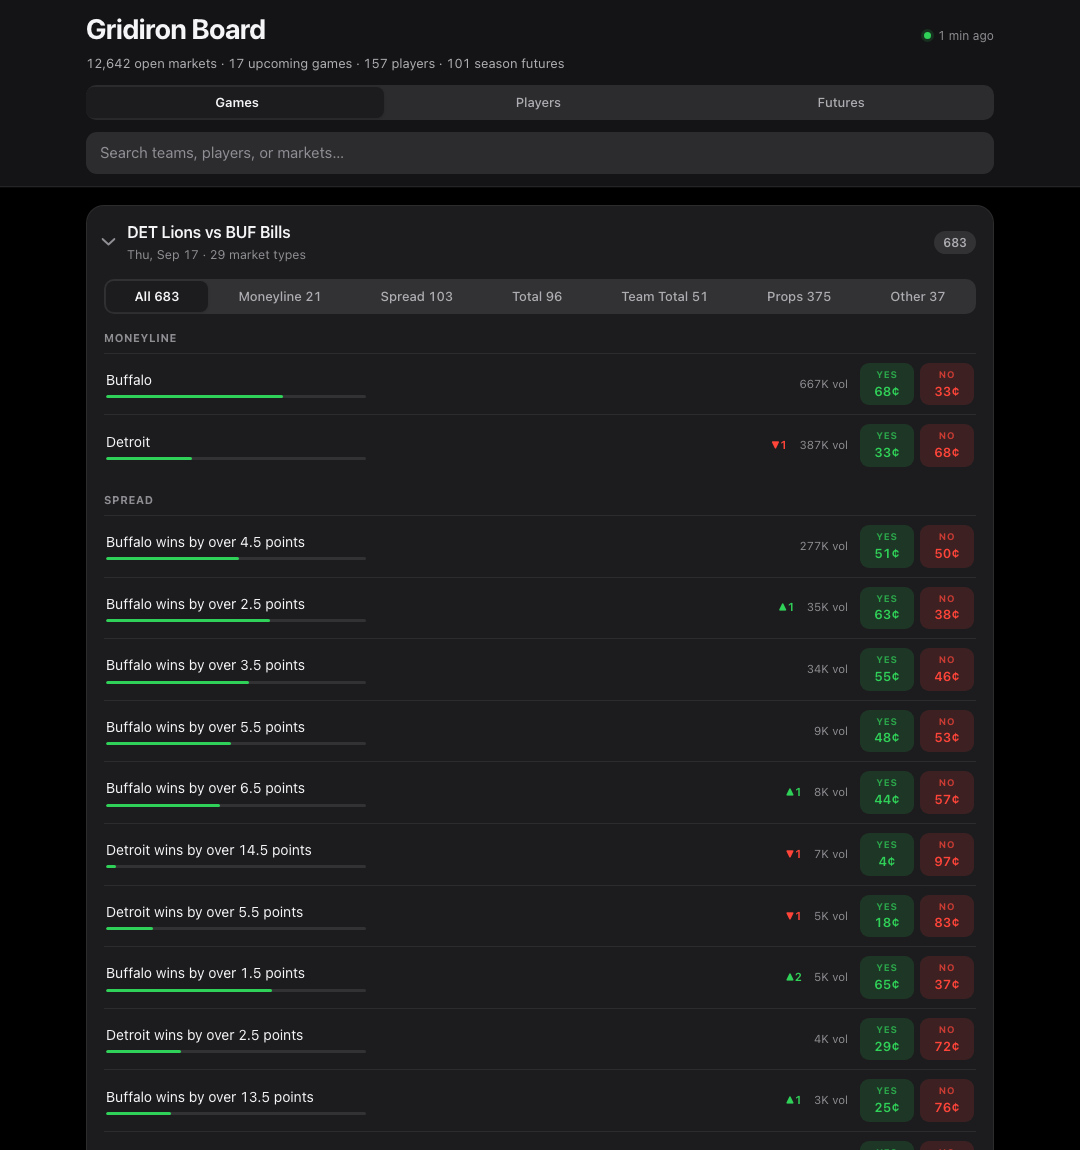
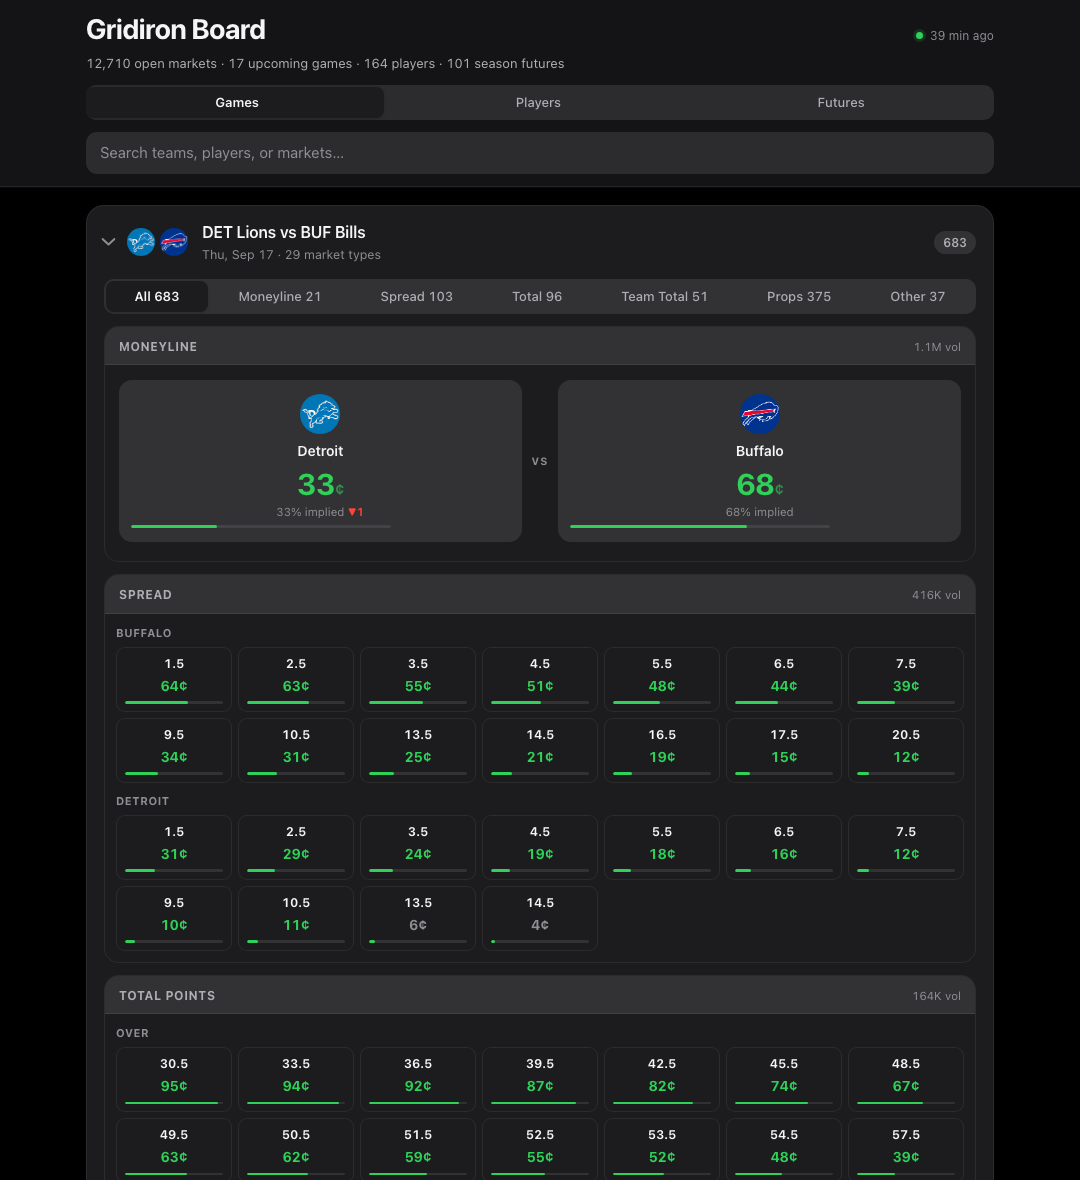
Projects: refresh Gridiron Board card for the panel layout and team crests

diff --git a/index.html b/index.html
@@ -246,7 +246,7 @@
         <!-- Project 3: Gridiron Board (15-113 API assignment) -->
         <article class="project-card reveal reveal-delay-2" data-tags="web 15-113 trading">
           <div class="project-thumb">
-            <img src="assets/gridiron-board.png" alt="Gridiron Board: a dark market board listing NFL moneyline and spread prices in cents with YES and NO quotes">
+            <img src="assets/gridiron-board.png" alt="Gridiron Board: NFL matchups with team crests, a head-to-head moneyline box and ladders of spread prices quoted in cents">
           </div>
           <div class="project-body">
             <h3>Gridiron Board</h3>
@@ -254,7 +254,9 @@
               Kalshi lists pro football across 342 separate market series, which makes browsing it
               on the exchange impractical. This pulls all of it in one pass &mdash; 12,600+ open
               markets across every upcoming game &mdash; and regroups it by matchup, bet type,
-              period and player, so a quarterback's whole prop ladder sits on one card. A Python
+              period and player, so a quarterback's whole prop ladder sits on one card. Each bet
+              type is drawn in the shape that suits it: a head-to-head box for the moneyline,
+              per-side ladders for spreads and totals, a box per player for props. A Python
               fetcher walks the API and writes a JSON snapshot the static page renders; the browser
               never calls Kalshi, because the API returns 403 to any cross-origin request. No API
               key needed &mdash; the market-data endpoints are public. Built for 15-113.
